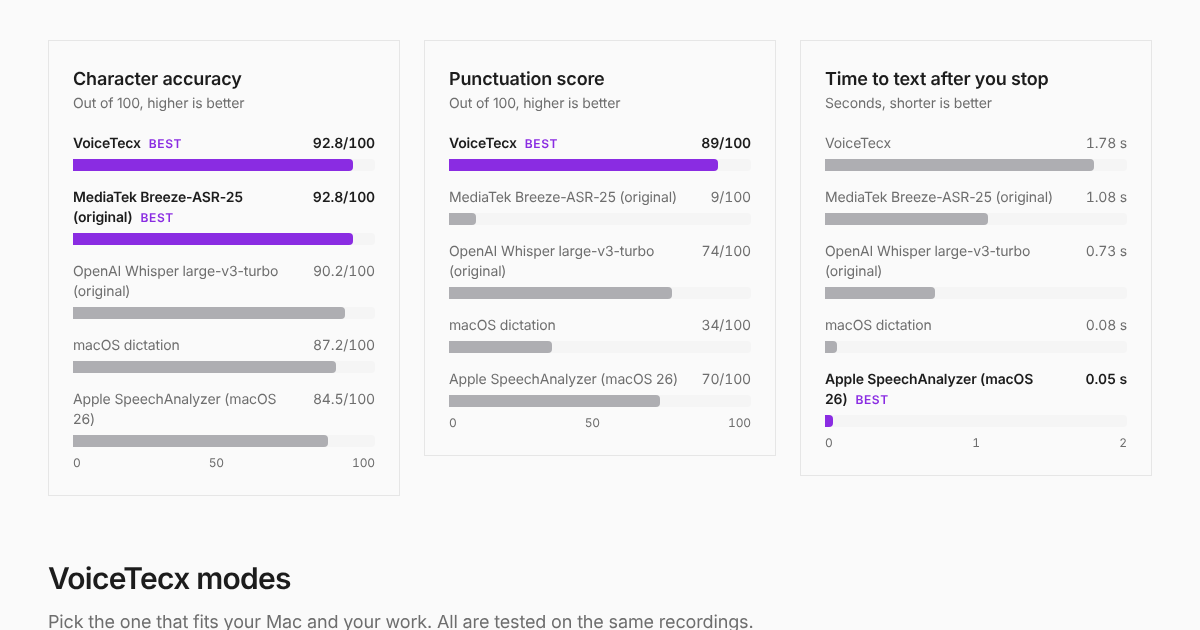
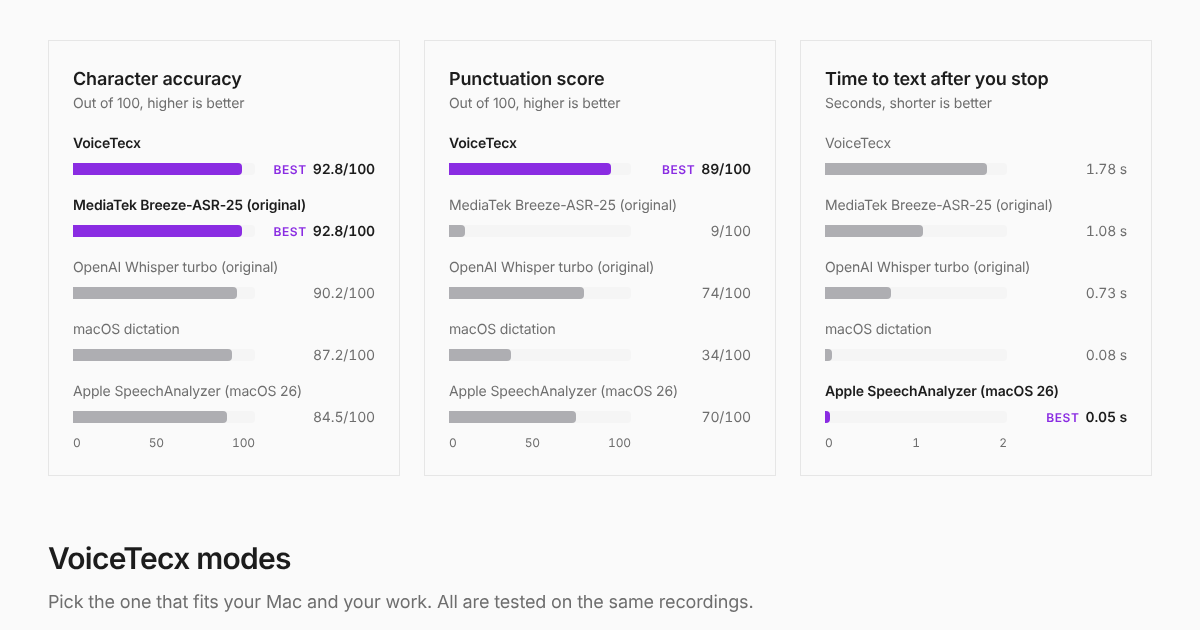
VoiceTecx charts: names on one line, value and Best tag in a fixed column at the end of each bar
The Best tag no longer wraps under a long name, and every row lines up the same way (Niko).
Whisper's label shortened to "OpenAI Whisper turbo (original)" so it fits a narrow card; the full
model name stays in the FAQ credits. Research images regenerated.

Claude-Session: https://claude.ai/code/session_01BNHmEDQLCwJupp3aEE97tE

diff --git a/components/voicetecx-content.tsx b/components/voicetecx-content.tsx
@@ -99,6 +99,9 @@ const FAQ: { q: Key; a: Key }[] = [
   { q: "vt_q7", a: "vt_q7_a" },
 ]
 
+// Wide enough for "Best 92.8/100" and "Measuring", so every bar ends at the same place.
+const VALUE_COL = "w-[6.75rem] shrink-0"
+
 function BarChart({ title, scale, max, unit = "/100", lower, rows, children }: Chart & { children?: ReactNode }) {
   const { t } = useLanguage()
   const name = (l: Row["label"]) => (l === "VoiceTecx" ? "VoiceTecx" : t(l))
@@ -115,32 +118,35 @@ function BarChart({ title, scale, max, unit = "/100", lower, rows, children }: C
           const win = r.value === best
           return (
           <div key={String(r.label)} role="listitem" title={`${name(r.label)}: ${r.display ?? t("vt_c_pending")}${r.display ? unit : ""}`}>
-            <div className="flex items-baseline justify-between gap-3 mb-1.5">
-              <span className={`text-sm ${win ? "font-semibold text-foreground" : "text-muted-foreground"}`}>
-                {name(r.label)}
-                {win && <span className="ml-2 whitespace-nowrap text-xs font-semibold uppercase tracking-wider text-primary">{t("vt_c_best")}</span>}
-              </span>
-              <span className={`text-sm tabular-nums whitespace-nowrap ${win ? "font-semibold text-foreground" : "text-muted-foreground"}`}>
+            {/* The name has the whole width, on one line; the value and the Best tag sit in a fixed column at the
+                end of the bar, so they line up on every row and never wrap (Niko, 2026-11-28). */}
+            <p className={`mb-1.5 truncate text-sm ${win ? "font-semibold text-foreground" : "text-muted-foreground"}`}>{name(r.label)}</p>
+            <div className="flex items-center gap-3">
+              {/* The track is the full scale, so the gap looks as large as it is, no larger. */}
+              <div className={`h-3 flex-1 rounded-r-[4px] ${r.value === undefined ? "border border-dashed border-border" : "bg-muted"}`}>
+                {r.value !== undefined && (
+                  <div
+                    className={`h-3 rounded-r-[4px] ${win ? "bg-primary" : "bg-[#AEAEB2] dark:bg-[#636366]"}`}
+                    style={{ width: `${Math.max(1, (r.value / max) * 100)}%` }}
+                  />
+                )}
+              </div>
+              <span className={`${VALUE_COL} text-right text-sm tabular-nums whitespace-nowrap ${win ? "font-semibold text-foreground" : "text-muted-foreground"}`}>
+                {win && <span className="mr-1.5 text-xs font-semibold uppercase tracking-wider text-primary">{t("vt_c_best")}</span>}
                 {r.display ? r.display + unit : t("vt_c_pending")}
               </span>
-            </div>
-            {/* The track is the full scale, so the gap looks as large as it is, no larger. */}
-            <div className={`h-3 w-full rounded-r-[4px] ${r.value === undefined ? "border border-dashed border-border" : "bg-muted"}`}>
-              {r.value !== undefined && (
-                <div
-                  className={`h-3 rounded-r-[4px] ${win ? "bg-primary" : "bg-[#AEAEB2] dark:bg-[#636366]"}`}
-                  style={{ width: `${Math.max(1, (r.value / max) * 100)}%` }}
-                />
-              )}
             </div>
           </div>
           )
         })}
       </div>
-      <div className="mt-2 flex justify-between text-xs text-muted-foreground tabular-nums" aria-hidden="true">
-        <span>0</span>
-        <span>{max / 2}</span>
-        <span>{max}</span>
+      <div className="mt-2 flex gap-3 text-xs text-muted-foreground tabular-nums" aria-hidden="true">
+        <div className="flex flex-1 justify-between">
+          <span>0</span>
+          <span>{max / 2}</span>
+          <span>{max}</span>
+        </div>
+        <span className={VALUE_COL} />
       </div>
       {children}
     </figure>
